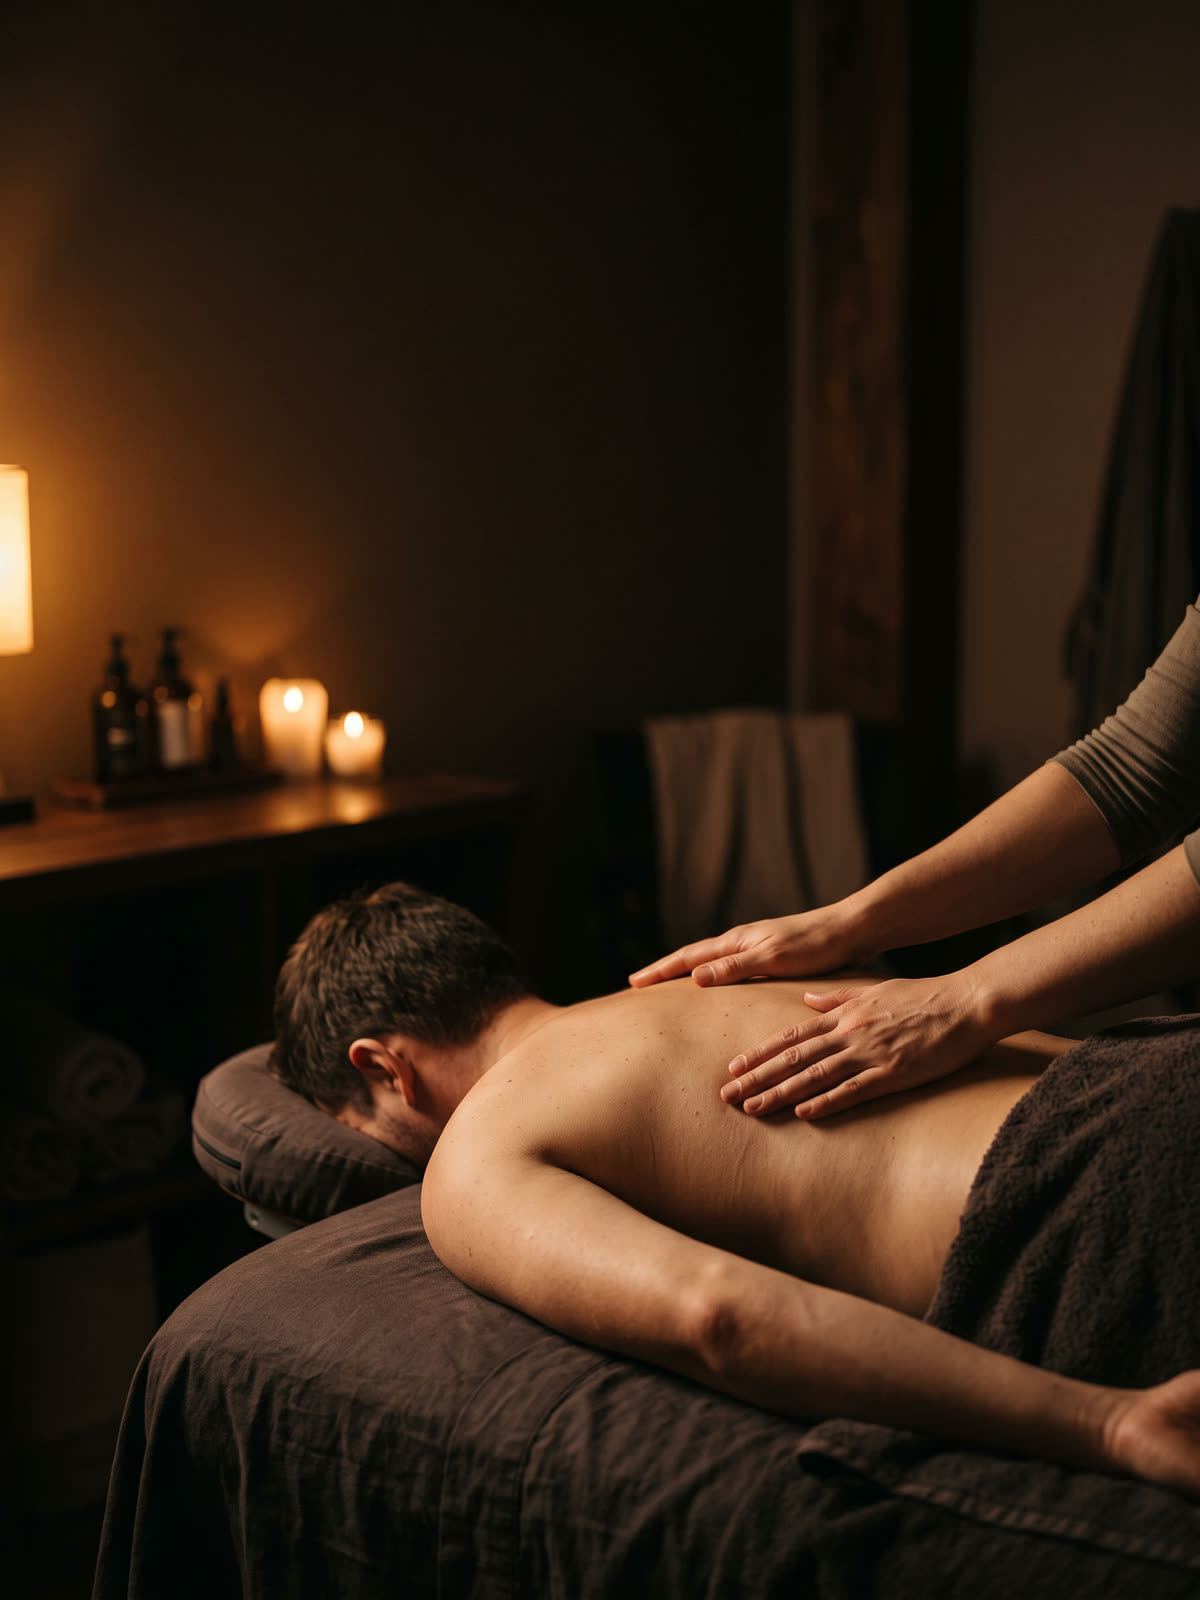
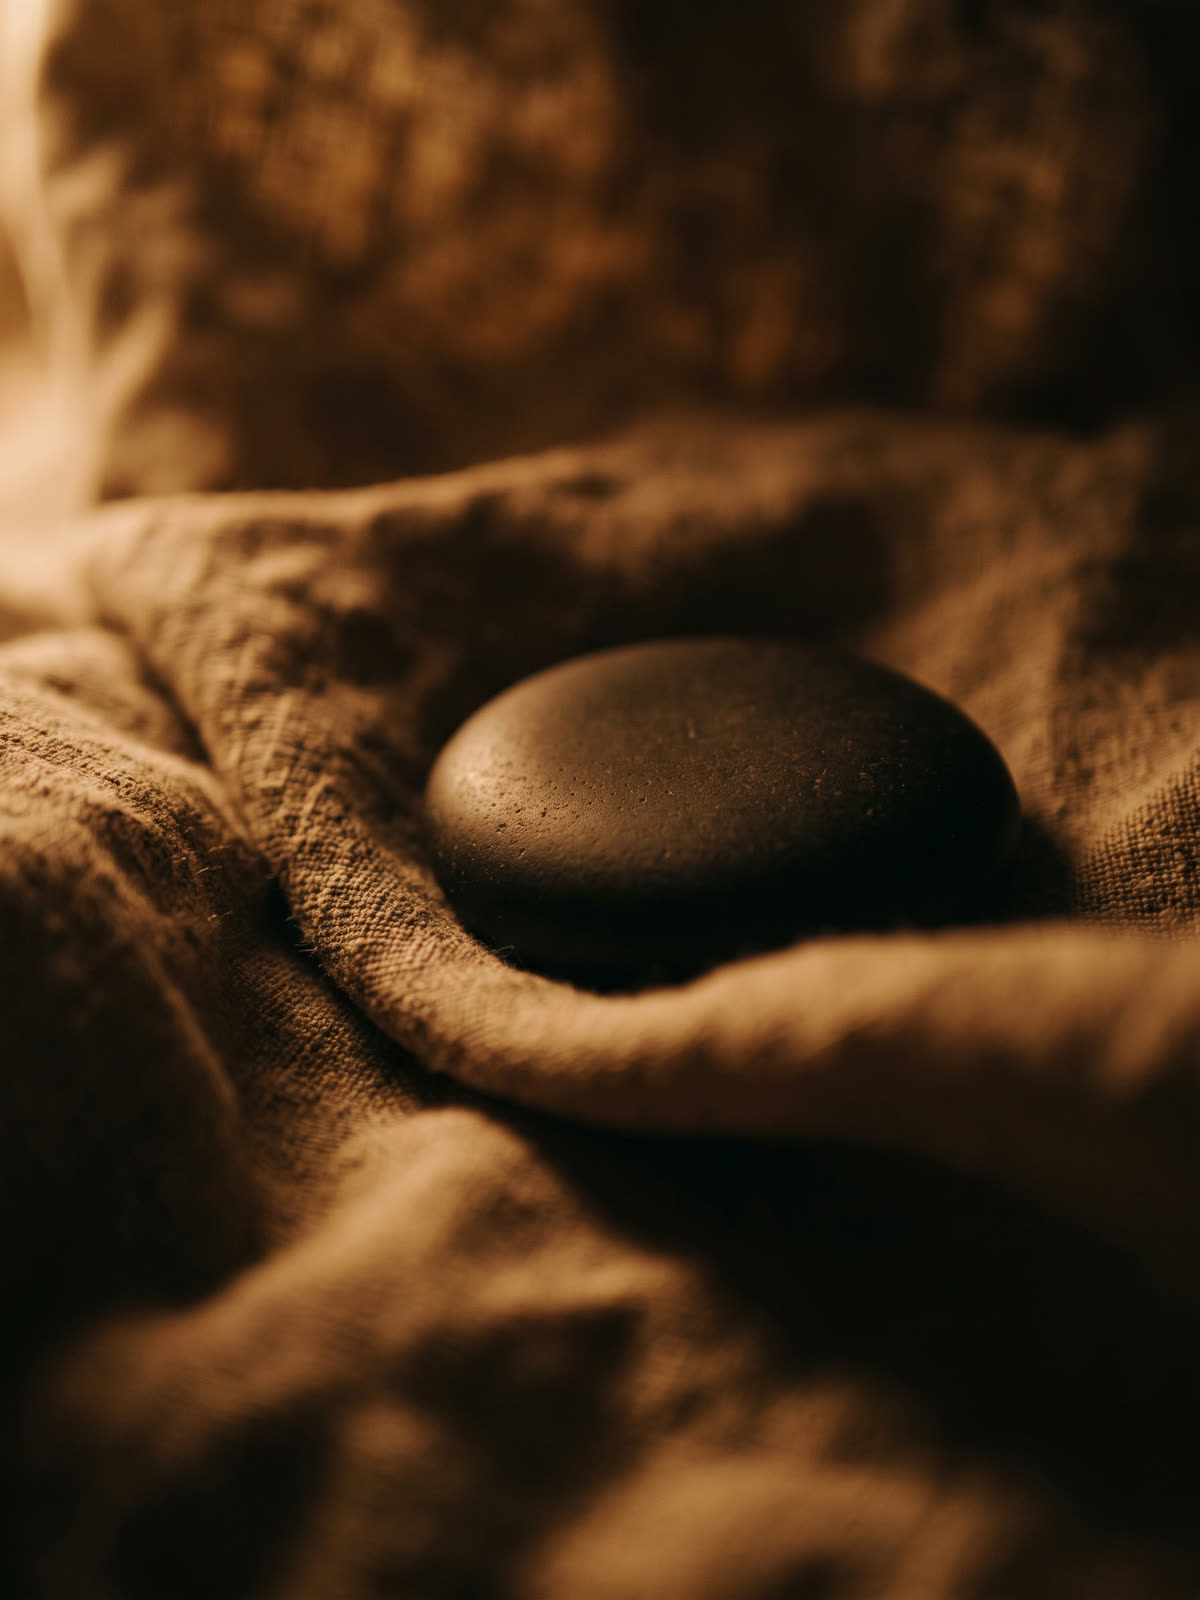
Swap the imagery, hide the spine on phones, fix a falsified review
Treatments opens on a tight lengthwise crop of the massage photograph:
mostly the person on the table, almost none of the room behind them.
About and the Cupping and Drainage Facial row take close, vague
still-lifes instead, shot shallow enough that most of each frame is warm
blur.

The spine is now hidden entirely under 720px rather than thinned. At 2px
against the left edge it read as a scroll bar, and it was taking room the
content wanted. It is also the only fixed full-height mix-blend-mode
element on the page, so it was the one piece of compositor work that
could not be skipped on any scroll frame of the whole visit.

Three things a copy audit turned up, all real:

The Jasmine Phillips review had been altered. "I highly recommend." was
inserted, words she never wrote, and "10/10 experience" was dropped from
the end with no ellipsis. Restored to her actual wording. Putting a
sentence in a named person's mouth is not a formatting choice.

Reflexology said "From $80" when the children's 35-minute treatment is
$50, which the fees table on the same page already states correctly.

"Open until seven, four nights a week. Saturdays too" reads as a claim
that Saturday also runs to seven. It closes at five. Both instances now
name the days.

diff --git a/index.html b/index.html
@@ -215,7 +215,7 @@
         <ul class="hero__reveal-facts">
           <li style="--d:.3"><strong class="hero__reveal-rating"><svg class="hero__reveal-star" aria-hidden="true"><use href="#star"/></svg>4.8</strong><span>out of 5 on Google</span></li>
           <li style="--d:.4"><strong>Three</strong><span>practitioners, booked by name</span></li>
-          <li style="--d:.5"><strong>Open till' 7</strong><span>four nights a week, Saturdays too</span></li>
+          <li style="--d:.5"><strong>Open till' 7</strong><span>Monday to Thursday, and open Saturdays</span></li>
         </ul>
         <div class="hero__reveal-actions" style="--d:.62">
           <a class="btn btn--primary btn--hero" href="https://thehealingbench.clinicsense.com/book/" rel="noopener">Book an appointment</a>
@@ -249,7 +249,7 @@
           <p>Our mission is to improve the well&#8209;being of each client through skilled and compassionate care. Whether you're dealing with an injury, chronic pain, or simply need to unwind, we are here to help you achieve your health care goals and become a stronger version of yourself.</p>
         </div>
         <div class="about__media" data-reveal>
-          <img class="about__image" data-parallax src="assets/about-room.jpg" alt="A therapist working across a client's shoulders by lamplight in the treatment room" width="1200" height="1600" loading="lazy" decoding="async">
+          <img class="about__image" data-parallax src="assets/about-room.jpg" alt="A warm massage stone resting on folded linen in low lamplight" width="1200" height="1600" loading="lazy" decoding="async">
         </div>
       </div>
     </div>
@@ -404,7 +404,7 @@
       <h2 class="shead" data-split="words">Treatments</h2>
 
       <figure class="treatments__opener" data-reveal>
-        <img data-parallax src="assets/massage-1.jpg" alt="A massage therapy session in progress at The Healing Bench" width="1920" height="1280" loading="lazy" decoding="async">
+        <img data-parallax src="assets/treatment-lengthwise.jpg" alt="A massage in progress, hands working across a client&apos;s back by lamplight" width="1920" height="1072" loading="lazy" decoding="async">
       </figure>
 
       <div class="treatments__group" data-reveal data-stagger="70">
@@ -505,7 +505,7 @@
           </figure>
           <div class="treatment-row__body">
             <p class="treatment-row__name">Reflexology</p>
-            <p class="treatment-row__price">From $80</p>
+            <p class="treatment-row__price">From $50</p>
             <p class="treatment-row__with">With Naira</p>
             <p class="treatment-row__desc">Experience deep relaxation and whole&#8209;body balance through the ancient art of reflexology. This gentle, therapeutic treatment focuses on specific pressure points that correspond to different organs and systems in the body. By stimulating these reflex areas, reflexology helps to release tension, improve circulation, and support your body's natural healing processes. Whether you're seeking stress relief, improved sleep, or overall well&#8209;being, reflexology offers a soothing, restorative experience that leaves you feeling grounded, refreshed, and renewed.</p>
             <p class="treatment-row__cta"><a class="btn btn--ghost btn--sm" href="https://thehealingbench.clinicsense.com/book/" rel="noopener">Book reflexology</a></p>
@@ -555,7 +555,7 @@
 
         <div class="treatment-row treatment-row--media" data-side="right">
           <figure class="treatment-row__media">
-            <img data-parallax src="assets/tex-contour.jpg" alt="Warm light across a soft textured surface at The Healing Bench" width="1920" height="1080" loading="lazy" decoding="async">
+            <img data-parallax src="assets/facial-cupping.jpg" alt="Glass facial cupping vessels and botanical oil bottles on folded linen" width="1080" height="1440" loading="lazy" decoding="async">
           </figure>
           <div class="treatment-row__body">
             <p class="treatment-row__name">Cupping and Drainage Facial</p>
@@ -831,7 +831,7 @@
             <div class="review-card">
               <span class="review-card__mark" aria-hidden="true">&ldquo;</span>
               <blockquote class="review-card__quote">
-                <p>"I got a facial from Naira today and it was amazing. I highly recommend. She uses all natural products that are great for your skin and has so much knowledge on what your skin needs!"</p>
+                <p>"I got a facial from Naira today and it was amazing&hellip; She uses all natural products that are great for your skin and has so much knowledge on what your skin needs! 10/10 experience"</p>
               </blockquote>
               <cite class="review-card__attrib">Jasmine Phillips</cite>
             </div>
@@ -1030,8 +1030,8 @@
           Beamsville, ON L3J 0A9
         </address>
         <ul>
-          <li>Open until seven, four nights a week</li>
-          <li>Saturdays too</li>
+          <li>Open till 7, Monday to Thursday</li>
+          <li>Saturdays 9 to 5</li>
           <li><a href="#visit">Full hours</a></li>
         </ul>
       </div>

diff --git a/styles.css b/styles.css
@@ -1664,27 +1664,18 @@ strong, b {
   filter: drop-shadow(0 0 4px rgba(247, 241, 232, .35));
 }
 
+/* The spine is gone on phones, not just thinner. At 2px against the left
+   edge it read as a scroll bar rather than as a progress indicator, and it
+   was taking room the content wanted. It is also the only fixed,
+   full-height mix-blend-mode element on the page, so it is the one piece
+   of compositor work that could not be skipped on any scroll frame of the
+   whole visit; removing it on the devices least able to afford that is
+   the right trade twice over. Section progress is still legible on a
+   phone from the nav's current-section highlight. */
 @media (max-width: 720px) {
   .spine {
-    left: 0;
-    width: 2px;
-    padding-block: var(--space-lg);
+    display: none;
   }
-
-  .spine__rule {
-    top: var(--space-lg);
-    bottom: var(--space-lg);
-    width: 2px;
-  }
-
-  .spine__node { width: 5px; height: 5px; }
-
-  /* No reserved body gutter on phone: the spine is fixed, pointer-
-     events:none and reads by mix-blend-mode against whatever is behind
-     it (section 10), so it never needs page content to step aside for
-     it. A body padding-left here previously pushed the entire page,
-     including the full-bleed hero, 6px off the true left edge — a real,
-     measured gap, not a capture artifact. */
 }
 
 /* mix-blend-mode:difference lets one spine read correctly against both
